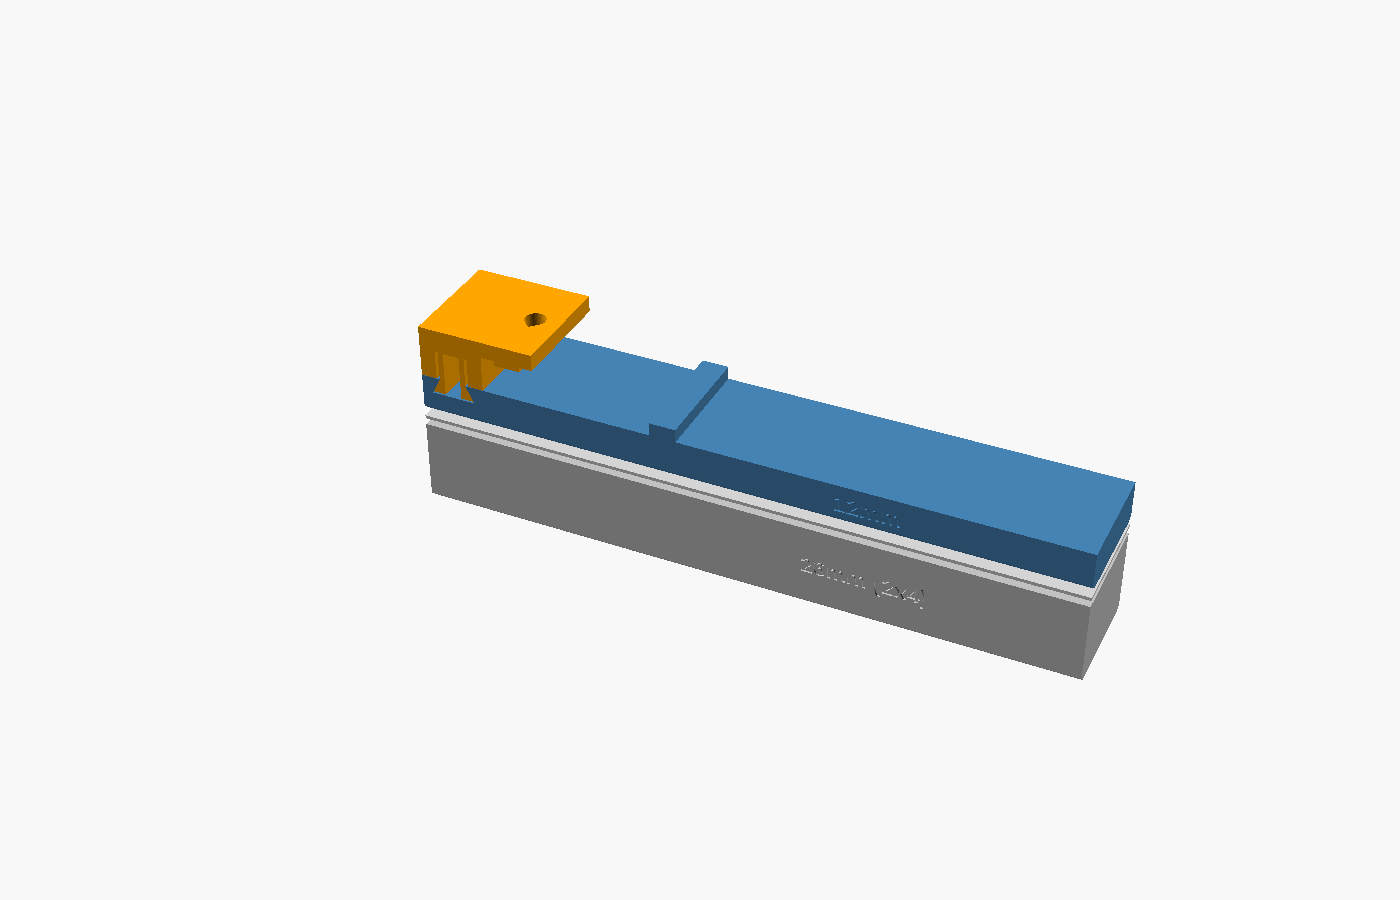
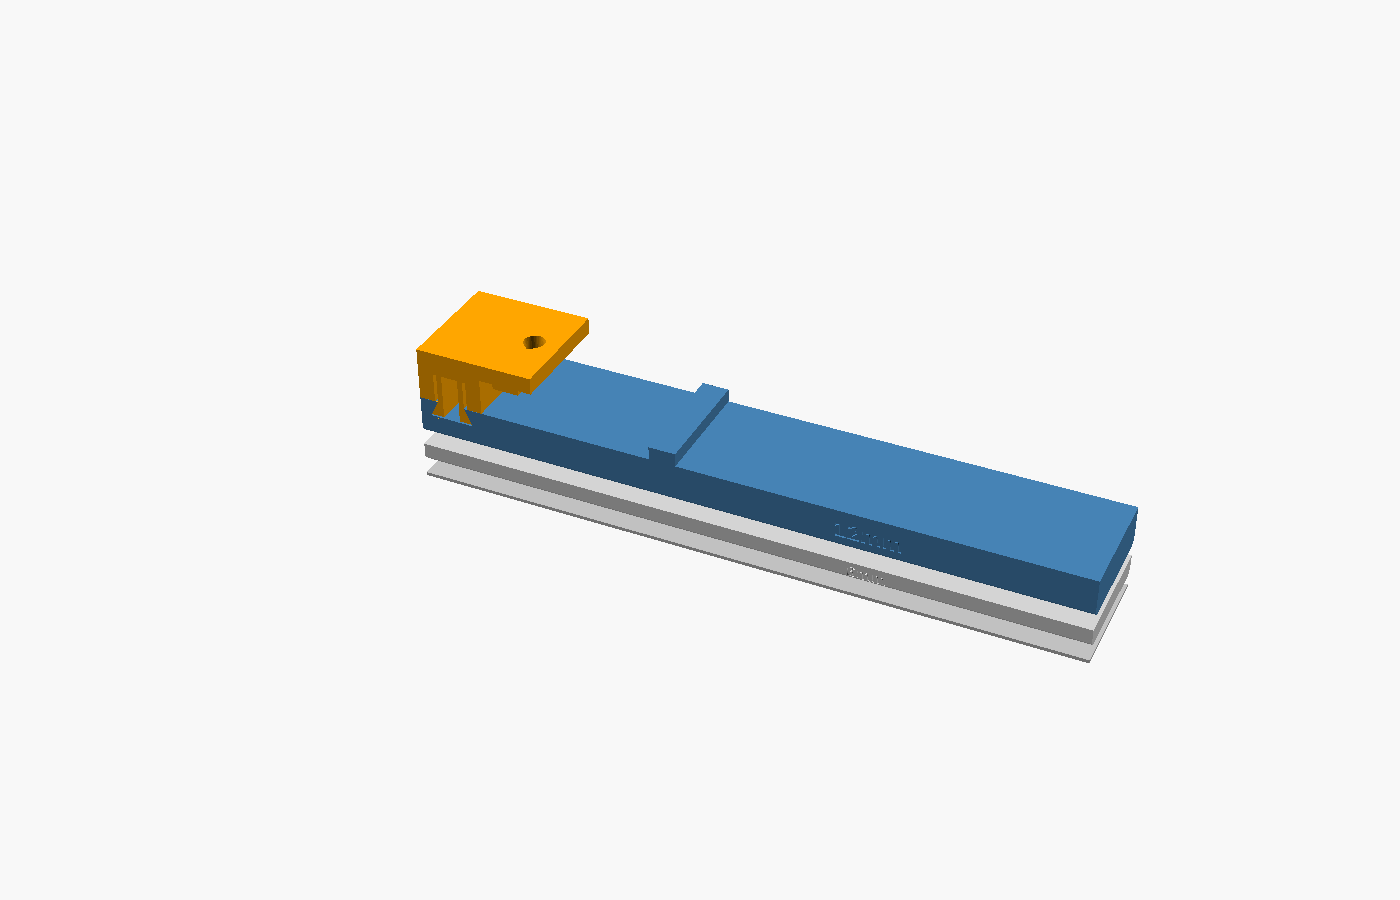
Make every magnet joint identical: top magnets proud, sockets below
Each shim's top magnet sticks up magnet_protrude and every part has a
socket under its bottom magnet, so magnets meet face to face and act
as locating pegs in any stacking order. The 1 mm shim's magnet fills
its thickness, so it goes at the bottom of the stack. Warn when a thin
shim's magnet can't stick up by exactly magnet_protrude.

Claude-Session: https://claude.ai/code/session_0164vZm4HeXjP3Tr6d3vAAi1

Changed region(s): [[0.2764, 0.28, 0.8293, 0.7467]]

diff --git a/README.md b/README.md
@@ -32,53 +32,46 @@ Set `shim_connection` to `"magnet"` (default) or `"dovetail"`.
 ### Magnets
 
 Disc magnets sit at three points along each part (`connector_inset` from each end, plus
-the middle). Set the size to match the magnets you have:
+the middle). Every joint in the stack is the same:
+
+- Each shim's **top magnet sticks up** `magnet_protrude` (1 mm).
+- Every part has a **socket under its bottom magnet**, slightly deeper than that.
+  The magnet sticking up from the part below nests into it.
+
+So the magnets meet face to face, which gives the strongest hold, and they work as
+locating pegs that stop the shims sliding.
 
 | Parameter          | Meaning                                                           |
 |--------------------|-------------------------------------------------------------------|
-| `magnet_d`         | Diameter of the magnets in the base and thicker shims            |
-| `magnet_h`         | Thickness of those magnets                                        |
-| `thin_magnet_d`    | Diameter of the magnets that go through thin shims               |
+| `magnet_d`         | Magnet diameter                                                   |
+| `magnet_h`         | Magnet thickness                                                  |
+| `magnet_protrude`  | How far each shim's top magnet sticks up (less than `magnet_h`)   |
 | `magnet_fit`       | Added to hole diameter: about 0.1 for a press fit, 0.3 to glue in |
-| `magnet_recess`    | Pocket is this much deeper than the magnet                        |
-| `magnet_min_floor` | Least plastic left under a pocket                                 |
+| `magnet_recess`    | Sockets are this much deeper than `magnet_protrude`               |
+| `magnet_min_floor` | Least plastic between a socket and a pocket                       |
 
-Pocket depth is `magnet_h + magnet_recess`. Each shim gets the most magnets its
-thickness allows:
+With the defaults (10×2 mm magnets, 1 mm sticking up):
 
-- **Room for two pockets**: one magnet in each face.
-- **Room for one pocket**: one magnet in the top face. It holds the shim below through a
-  thin floor.
-- **At least as thick as a magnet**: a through-hole, with the magnet glued flush with the
-  top face.
-- **Thinner than a magnet**: a through-hole, with the magnet glued flush with the bottom
-  face. It sticks up out of the top face.
+| Part        | Magnets                                                                   |
+|-------------|---------------------------------------------------------------------------|
+| Base        | Socket, with the magnet pushed to the end of the pocket                   |
+| 26 mm, 6 mm | Top pocket (magnet 1 mm proud), plus socket and bottom pocket             |
+| 3 mm        | Top pocket (magnet 1 mm proud), socket underneath, solid floor between    |
+| 2 mm        | Through-hole, magnet glued 1 mm proud, which leaves the socket underneath |
+| 1 mm        | Through-hole, magnet flush with the bottom and 1 mm proud. **No socket**  |
 
-**Shims thinner than your magnets.** The magnet sticking up out of a thin shim nests into
-a socket under the magnets of the part above, which also stops the thin shim sliding.
-`magnet_socket_depth = "auto"` sizes that socket for the thinnest shim in
-`shim_set_heights`. The base and thicker shims glue their bottom magnets that far up
-inside their pockets: push each magnet to the end of its pocket. If you never use shims
-thinner than your magnets, set `magnet_socket_depth = 0`. Then every magnet sits flush
-and holds a little more strongly.
+**Stacking rule:** any order works, except the **1 mm shim always goes at the very
+bottom** of the stack. Its magnet fills its whole thickness, so there's no room for a
+socket. The empty sockets under the bottom-most shim do no harm.
 
-With the defaults (10×2 mm magnets, 1 mm socket):
+If your magnets' thickness doesn't let the thinnest shim's magnet stick up by exactly
+`magnet_protrude`, OpenSCAD prints a warning.
 
-| Part         | Magnets                                                      |
-|--------------|--------------------------------------------------------------|
-| Base         | Bottom pocket, magnet pushed to the end, 1 mm socket below   |
-| 26 mm, 6 mm  | Top pocket, plus a bottom pocket with a 1 mm socket below    |
-| 3 mm         | Through-hole, magnet flush with the top, 1 mm socket below   |
-| 2 mm         | Through-hole, magnet flush with both faces                   |
-| 1 mm         | Through-hole, magnet flush with the bottom, 1 mm proud on top |
-
-**Stacking rule:** the part directly above a 1 mm shim must have a socket. That's the
-base or the 3, 6 or 26 mm shim. In practice, put the 1 mm shim straight under the base.
-Two 1 mm shims can't stack directly, and neither can a 2 mm shim on top of a 1 mm one.
-
-**Polarity:** put every magnet in with the **same pole facing down**. Magnets lined up
-the same way always attract, so the shims stack in any order. Mark one pole of your
-magnets before you start.
+**Polarity and assembly:** every magnet goes in with the **same pole facing down**.
+The easiest way is to build the kit as a stack. Glue the magnets into one part, then set
+the next part on top and drop its magnets in. Each one flips to attract the magnet below
+and seats at the right depth. That matters for the 2 mm shim, whose through-hole doesn't
+set the magnet's depth.
 
 ### Dovetails
 
